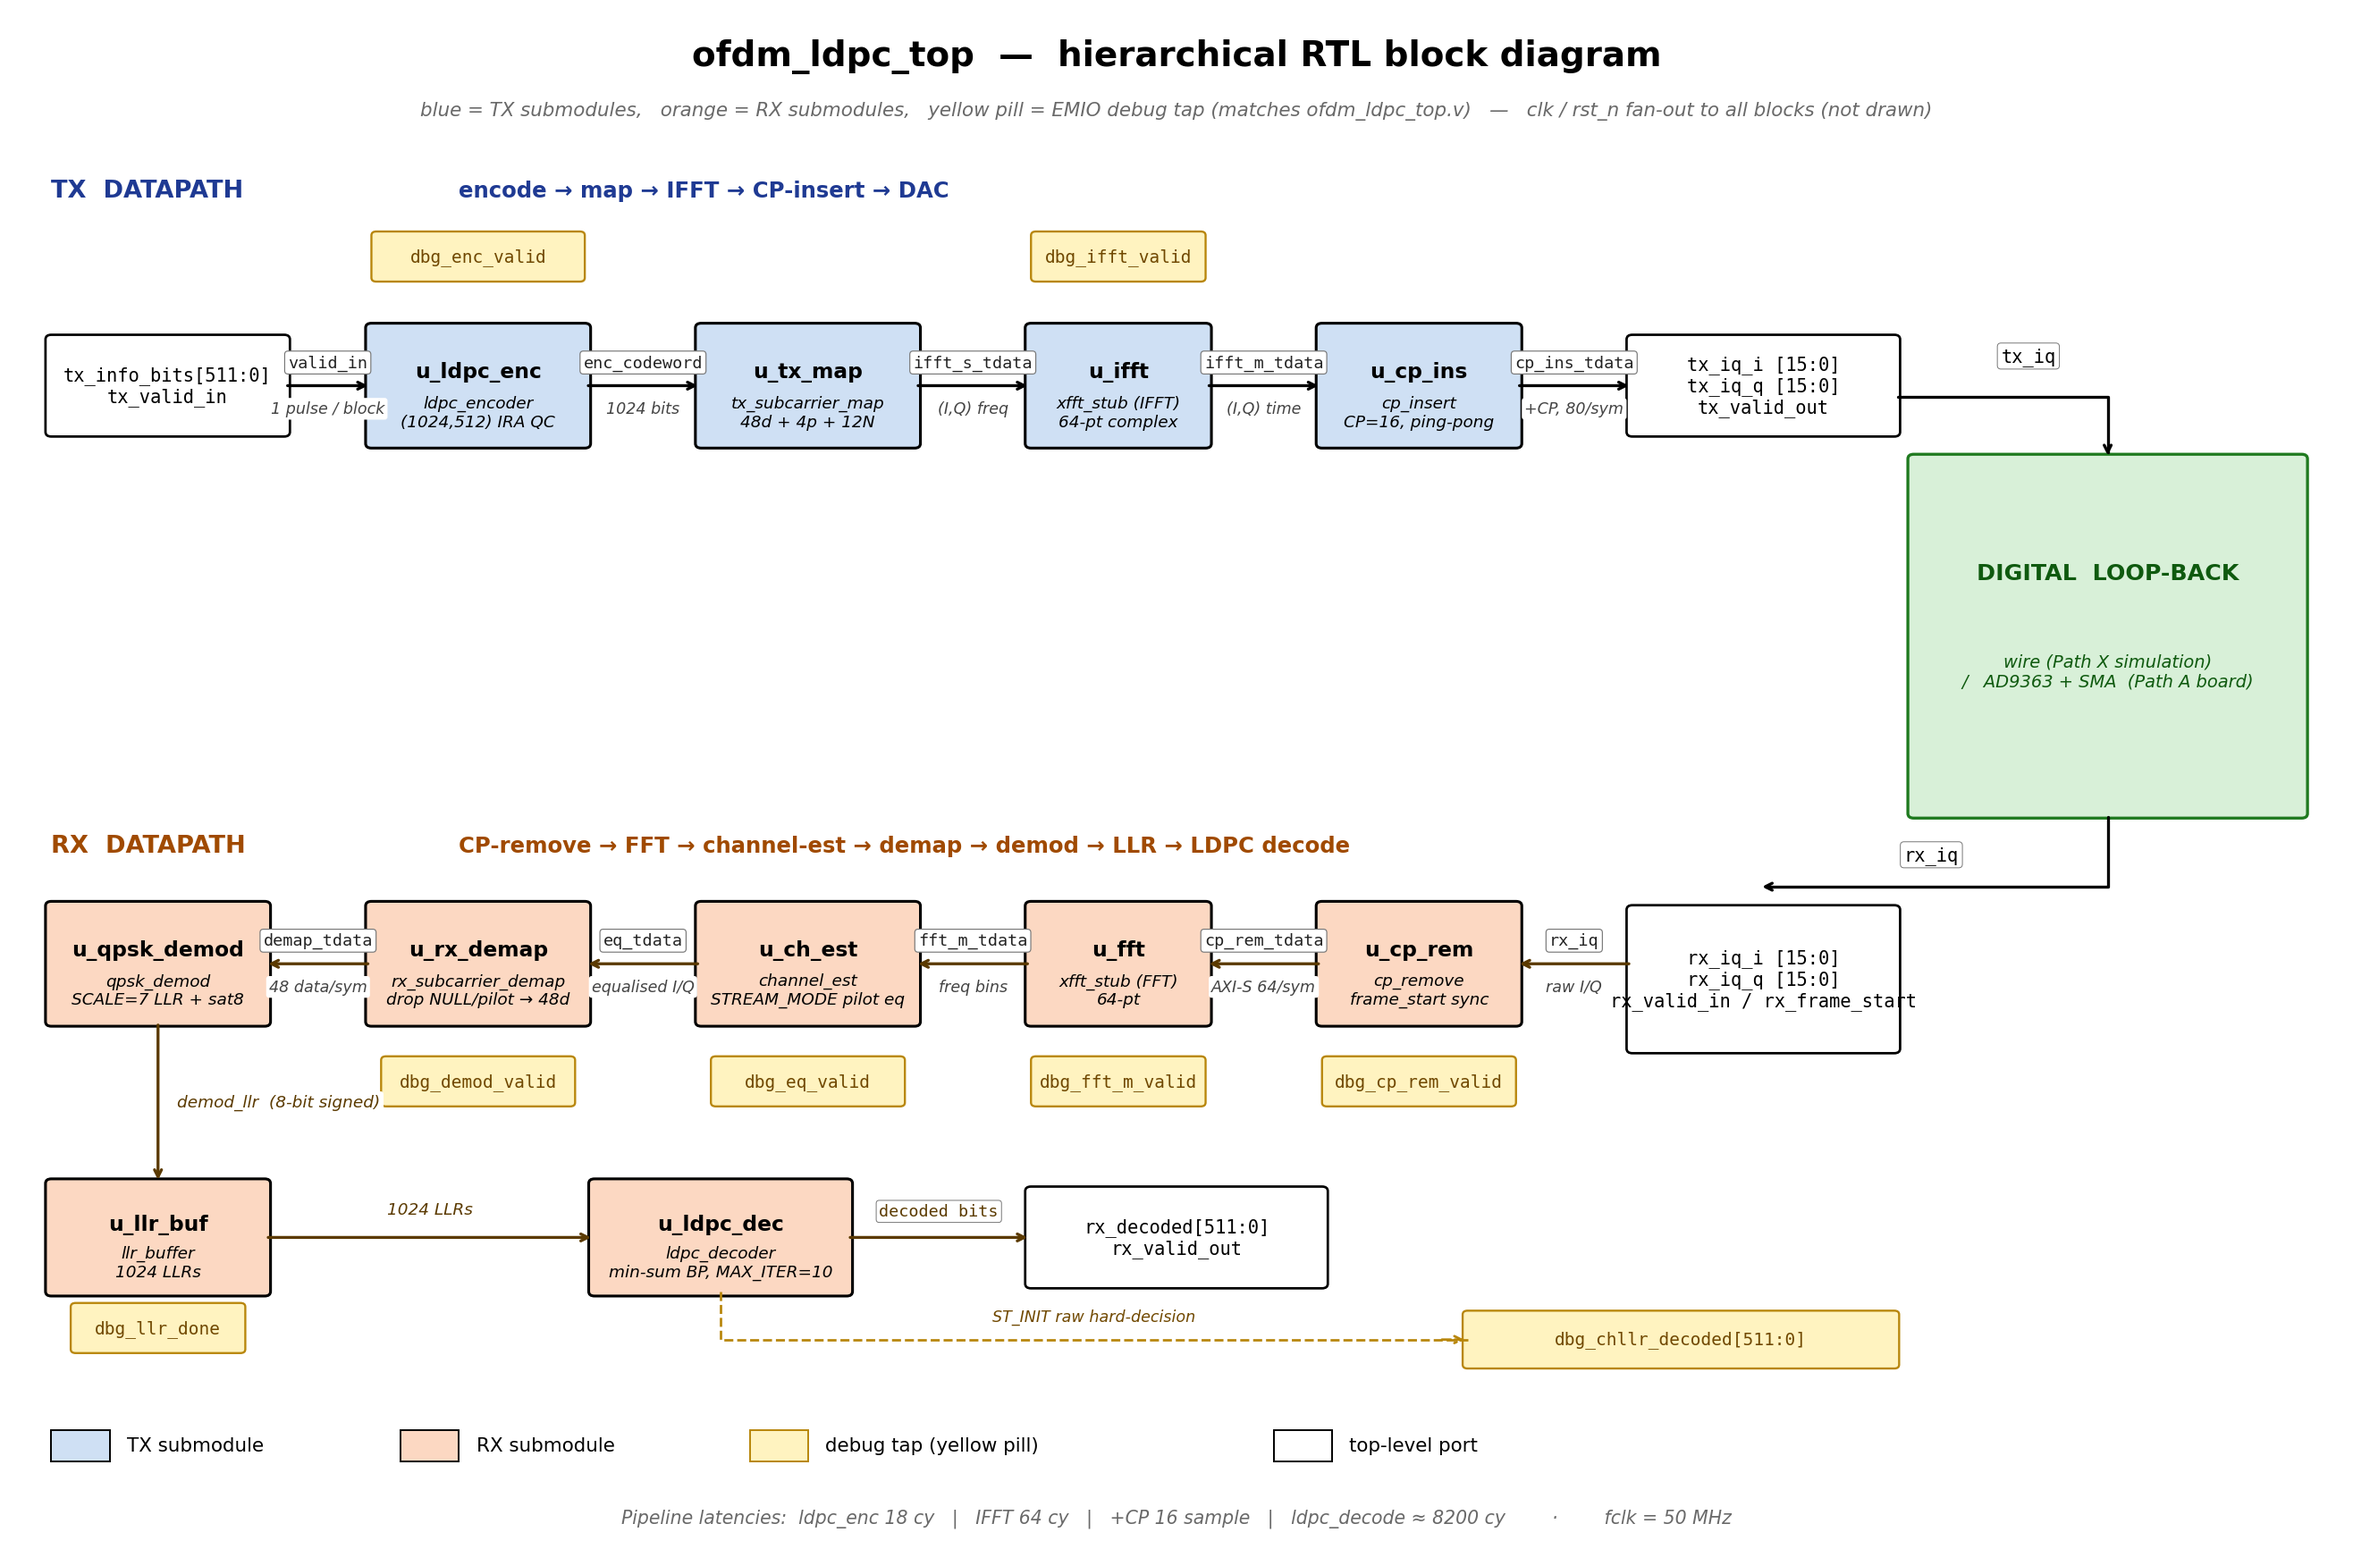
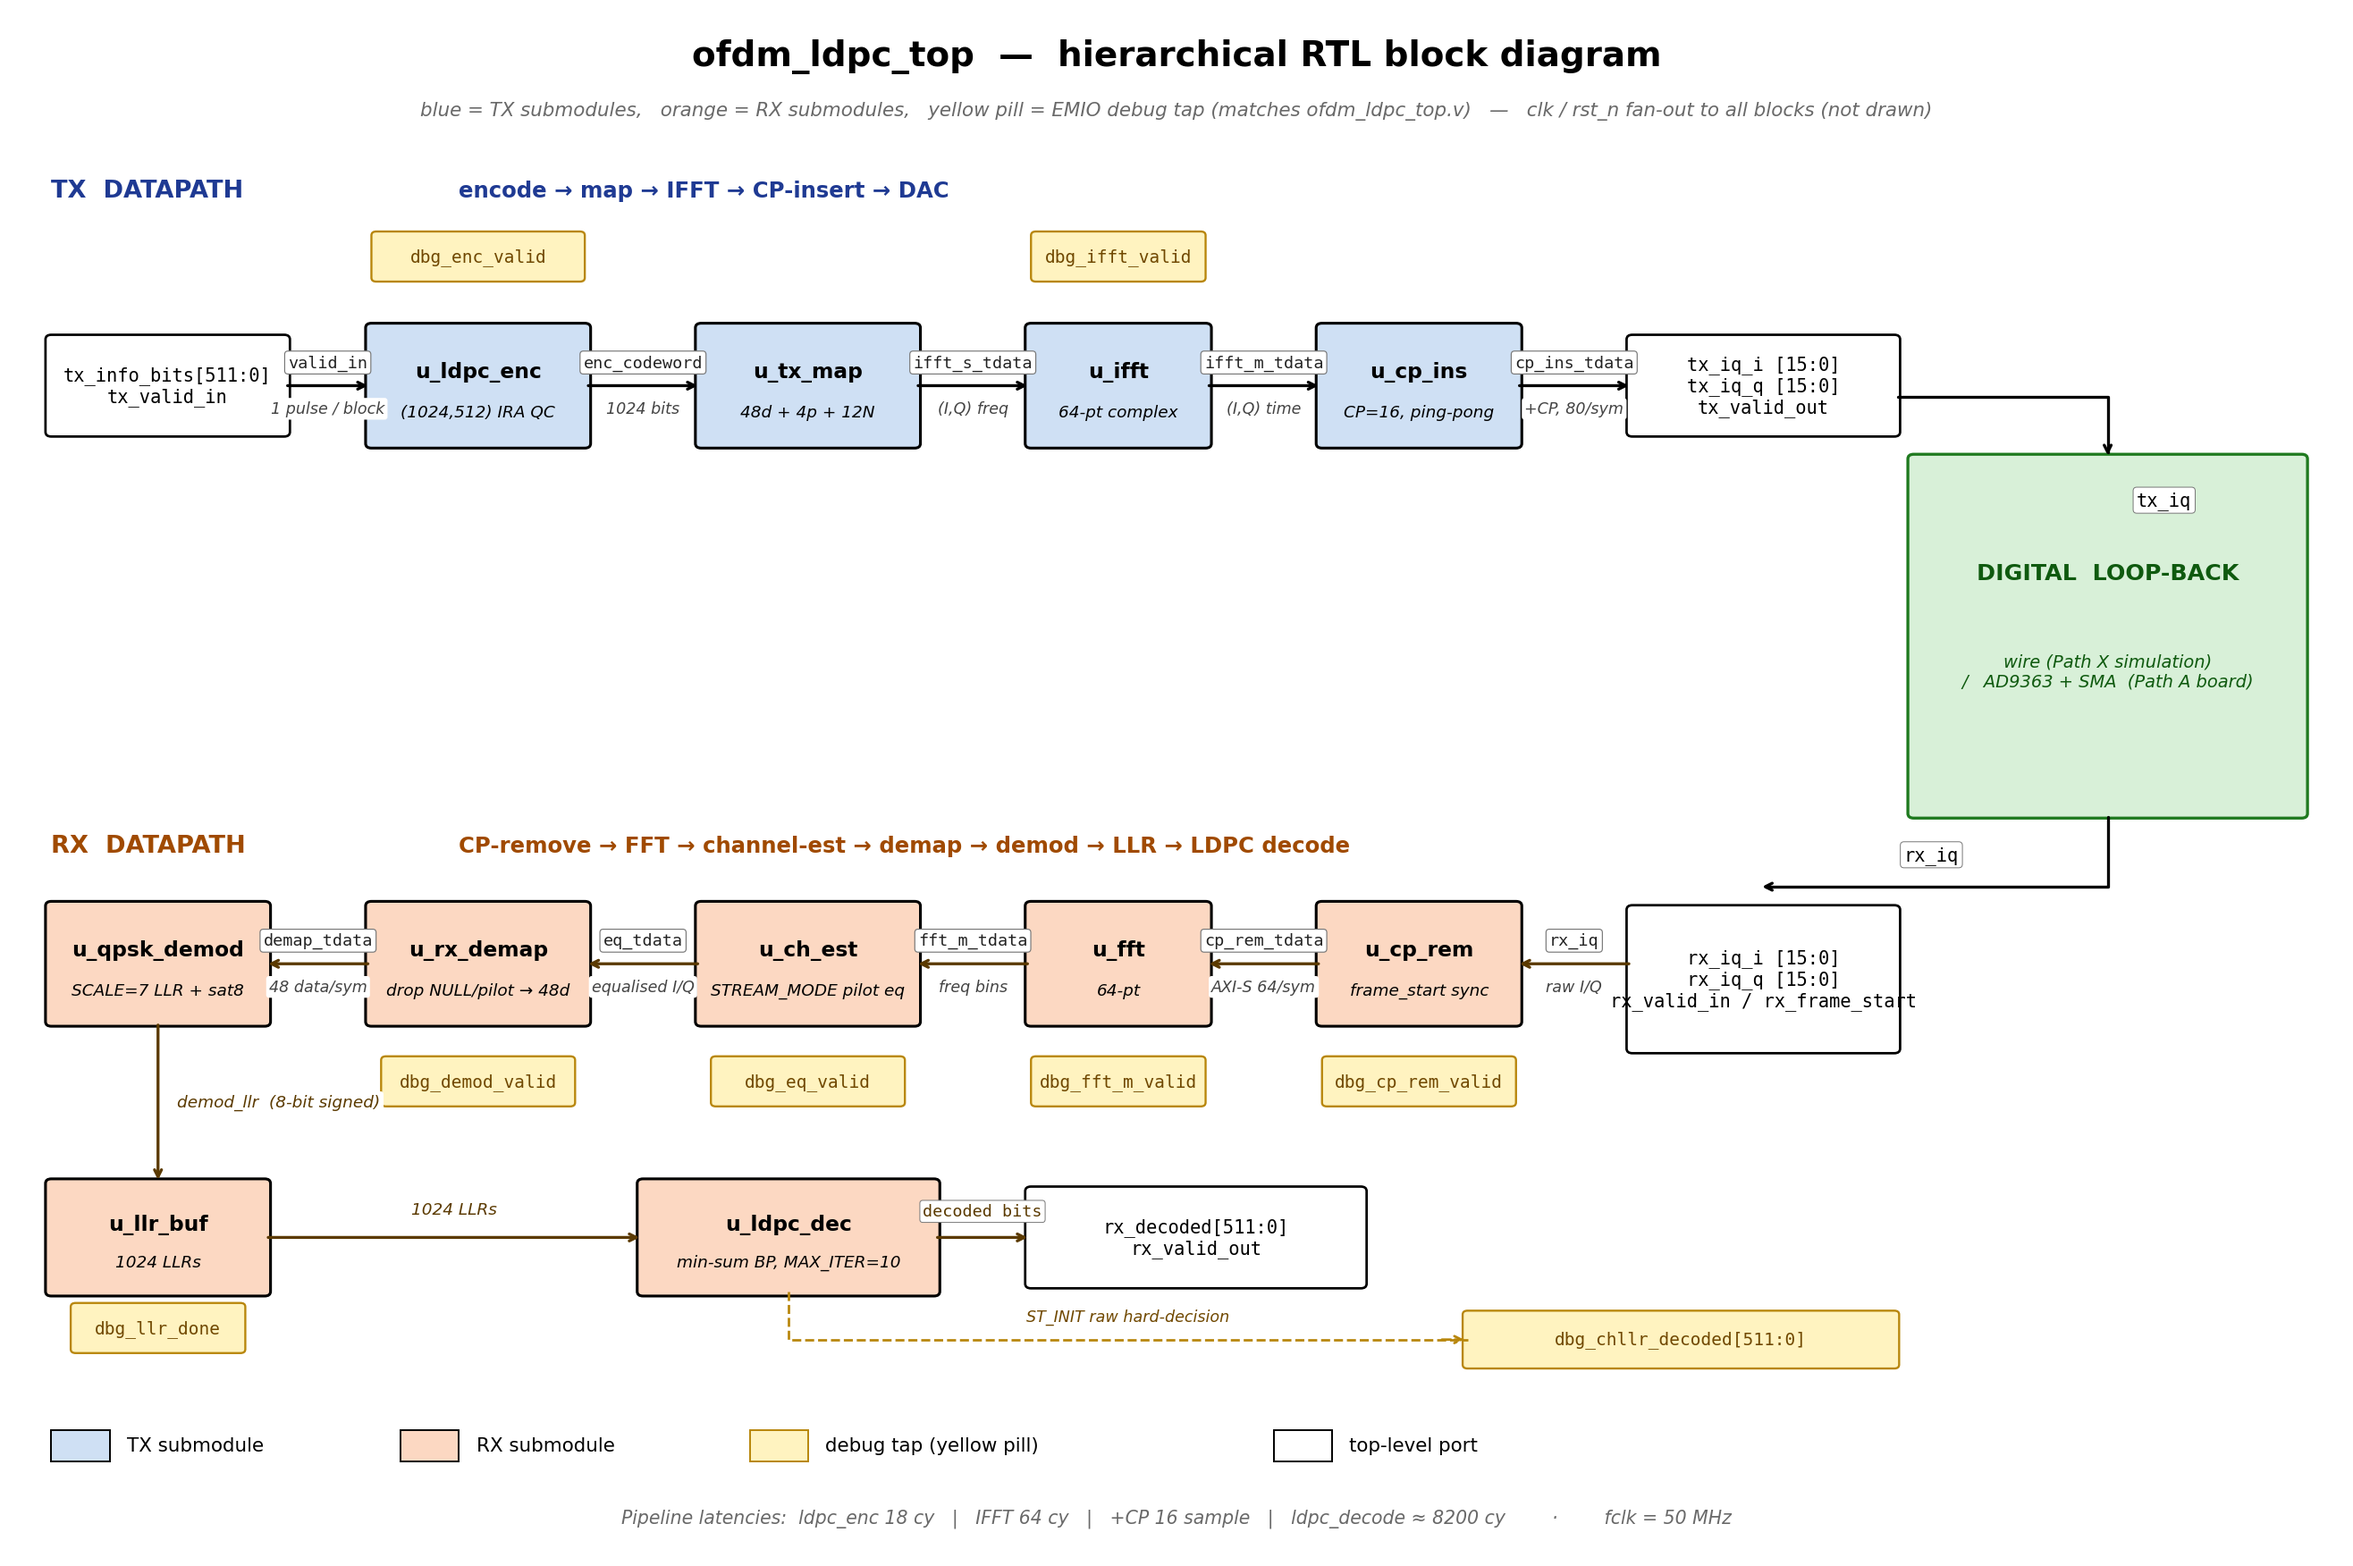
sim: drop redundant sub-text first lines that duplicated module names
Each module box previously carried two italic sub-text lines: a name
(ldpc_encoder, tx_subcarrier_map, cp_insert, cp_remove, channel_est,
ldpc_decoder, …) that just restated the bold module name above it,
plus the actual technical parameter.  The name line was 12-19 chars
of italic text and visibly hit the box borders, especially in the
narrower W=1.8/2.0/2.2 boxes.

Removed the redundant name line in all 11 boxes so only the
technical parameter remains:
  u_ldpc_enc   -> (1024,512) IRA QC
  u_tx_map     -> 48d + 4p + 12N
  u_ifft       -> 64-pt complex
  u_cp_ins     -> CP=16, ping-pong
  u_cp_rem     -> frame_start sync
  u_fft        -> 64-pt
  u_ch_est     -> STREAM_MODE pilot eq
  u_rx_demap   -> drop NULL/pilot -> 48d
  u_qpsk_demod -> SCALE=7 LLR + sat8
  u_llr_buf    -> 1024 LLRs
  u_ldpc_dec   -> min-sum BP, MAX_ITER=10

diff --git a/simulation/gen_rtl_ofdm_ldpc_top.py b/simulation/gen_rtl_ofdm_ldpc_top.py
@@ -116,13 +116,13 @@ ARR_Y_TX = TX_Y + TX_H / 2
 port_box(0.4, TX_Y + 0.15, 2.4, TX_H - 0.30,
          "tx_info_bits[511:0]\ntx_valid_in")
 box(3.7, TX_Y, 2.2, TX_H, "u_ldpc_enc", "#CFE0F4",
-    "ldpc_encoder\n(1024,512) IRA QC")
+    "(1024,512) IRA QC")
 box(7.1, TX_Y, 2.2, TX_H, "u_tx_map", "#CFE0F4",
-    "tx_subcarrier_map\n48d + 4p + 12N")
+    "48d + 4p + 12N")
 box(10.5, TX_Y, 1.8, TX_H, "u_ifft", "#CFE0F4",
-    "xfft_stub (IFFT)\n64-pt complex")
+    "64-pt complex")
 box(13.5, TX_Y, 2.0, TX_H, "u_cp_ins", "#CFE0F4",
-    "cp_insert\nCP=16, ping-pong")
+    "CP=16, ping-pong")
 port_box(16.7, TX_Y + 0.15, 2.7, TX_H - 0.30,
          "tx_iq_i [15:0]\ntx_iq_q [15:0]\ntx_valid_out")
 
@@ -152,8 +152,7 @@ ax.annotate("", xy=(LB_X + LB_W * 0.5, LB_Y + LB_H),
             xytext=(19.4, ARR_Y_TX - 0.15),
             arrowprops=dict(arrowstyle="->", color="black", lw=1.7,
                             connectionstyle="angle,angleA=0,angleB=90,rad=0"))
-# Place caption above the horizontal arrow segment, OUTSIDE the loopback box
-ax.text((19.4 + (LB_X + LB_W * 0.5)) / 2, ARR_Y_TX + 0.32,
+ax.text(LB_X + LB_W * 0.5 + 0.30, ARR_Y_TX - 1.55,
         "tx_iq", fontsize=10.5, family="monospace",
         bbox=dict(boxstyle="round,pad=0.20",
                   fc="white", ec="#777", lw=0.5))
@@ -175,15 +174,15 @@ ARR_Y_RX = RX_Y + RX_H / 2
 port_box(16.7, RX_Y - 0.35, 2.7, RX_H + 0.30,
          "rx_iq_i [15:0]\nrx_iq_q [15:0]\nrx_valid_in / rx_frame_start")
 box(13.5, RX_Y, 2.0, RX_H, "u_cp_rem", "#FCD8C2",
-    "cp_remove\nframe_start sync")
+    "frame_start sync")
 box(10.5, RX_Y, 1.8, RX_H, "u_fft", "#FCD8C2",
-    "xfft_stub (FFT)\n64-pt")
+    "64-pt")
 box(7.1,  RX_Y, 2.2, RX_H, "u_ch_est", "#FCD8C2",
-    "channel_est\nSTREAM_MODE pilot eq")
+    "STREAM_MODE pilot eq")
 box(3.7,  RX_Y, 2.2, RX_H, "u_rx_demap", "#FCD8C2",
-    "rx_subcarrier_demap\ndrop NULL/pilot → 48d")
+    "drop NULL/pilot → 48d")
 box(0.4,  RX_Y, 2.2, RX_H, "u_qpsk_demod", "#FCD8C2",
-    "qpsk_demod\nSCALE=7 LLR + sat8")
+    "SCALE=7 LLR + sat8")
 
 # RX arrows go right -> left (gaps widened to 1.1-1.2 so caption pills fit)
 harrow(16.7, 15.5, ARR_Y_RX, "rx_iq",        "raw I/Q",        color="#5b3a00")
@@ -214,7 +213,7 @@ ax.text(19.5, (LB_Y + RX_Y + RX_H) / 2,
 # ---------------------------------------------------------------------------
 LLR_X, LLR_Y, LLR_W, LLR_H = 0.4, 3.4, 2.2, 1.4
 box(LLR_X, LLR_Y, LLR_W, LLR_H, "u_llr_buf", "#FCD8C2",
-    "llr_buffer\n1024 LLRs")
+    "1024 LLRs")
 
 # Down arrow from u_qpsk_demod to u_llr_buf
 ax.annotate("", xy=(LLR_X + LLR_W / 2, LLR_Y + LLR_H),
@@ -230,9 +229,9 @@ ax.text(LLR_X + LLR_W / 2 + 0.20, (LLR_Y + LLR_H + RX_Y) / 2,
 # the u_llr_buf -> u_ldpc_dec arrow or its "1024 LLRs" caption.
 yellow_pill(LLR_X + 0.25, LLR_Y - 0.75, 1.7, 0.55, "dbg_llr_done")
 
-LDP_X, LDP_Y, LDP_W, LDP_H = 6.0, 3.4, 2.6, 1.4
+LDP_X, LDP_Y, LDP_W, LDP_H = 6.5, 3.4, 3.0, 1.4
 box(LDP_X, LDP_Y, LDP_W, LDP_H, "u_ldpc_dec", "#FCD8C2",
-    "ldpc_decoder\nmin-sum BP, MAX_ITER=10")
+    "min-sum BP, MAX_ITER=10")
 
 ax.annotate("", xy=(LDP_X, LDP_Y + LDP_H * 0.5),
             xytext=(LLR_X + LLR_W, LLR_Y + LLR_H * 0.5),
@@ -243,7 +242,7 @@ ax.text((LLR_X + LLR_W + LDP_X) / 2, LLR_Y + LLR_H * 0.5 + 0.30,
         bbox=dict(boxstyle="round,pad=0.18", fc="white", ec="none"))
 
 # rx_decoded port
-RXD_X, RXD_Y, RXD_W, RXD_H = 10.5, 3.5, 3.0, 1.2
+RXD_X, RXD_Y, RXD_W, RXD_H = 10.5, 3.5, 3.4, 1.2
 port_box(RXD_X, RXD_Y, RXD_W, RXD_H,
          "rx_decoded[511:0]\nrx_valid_out")
 
